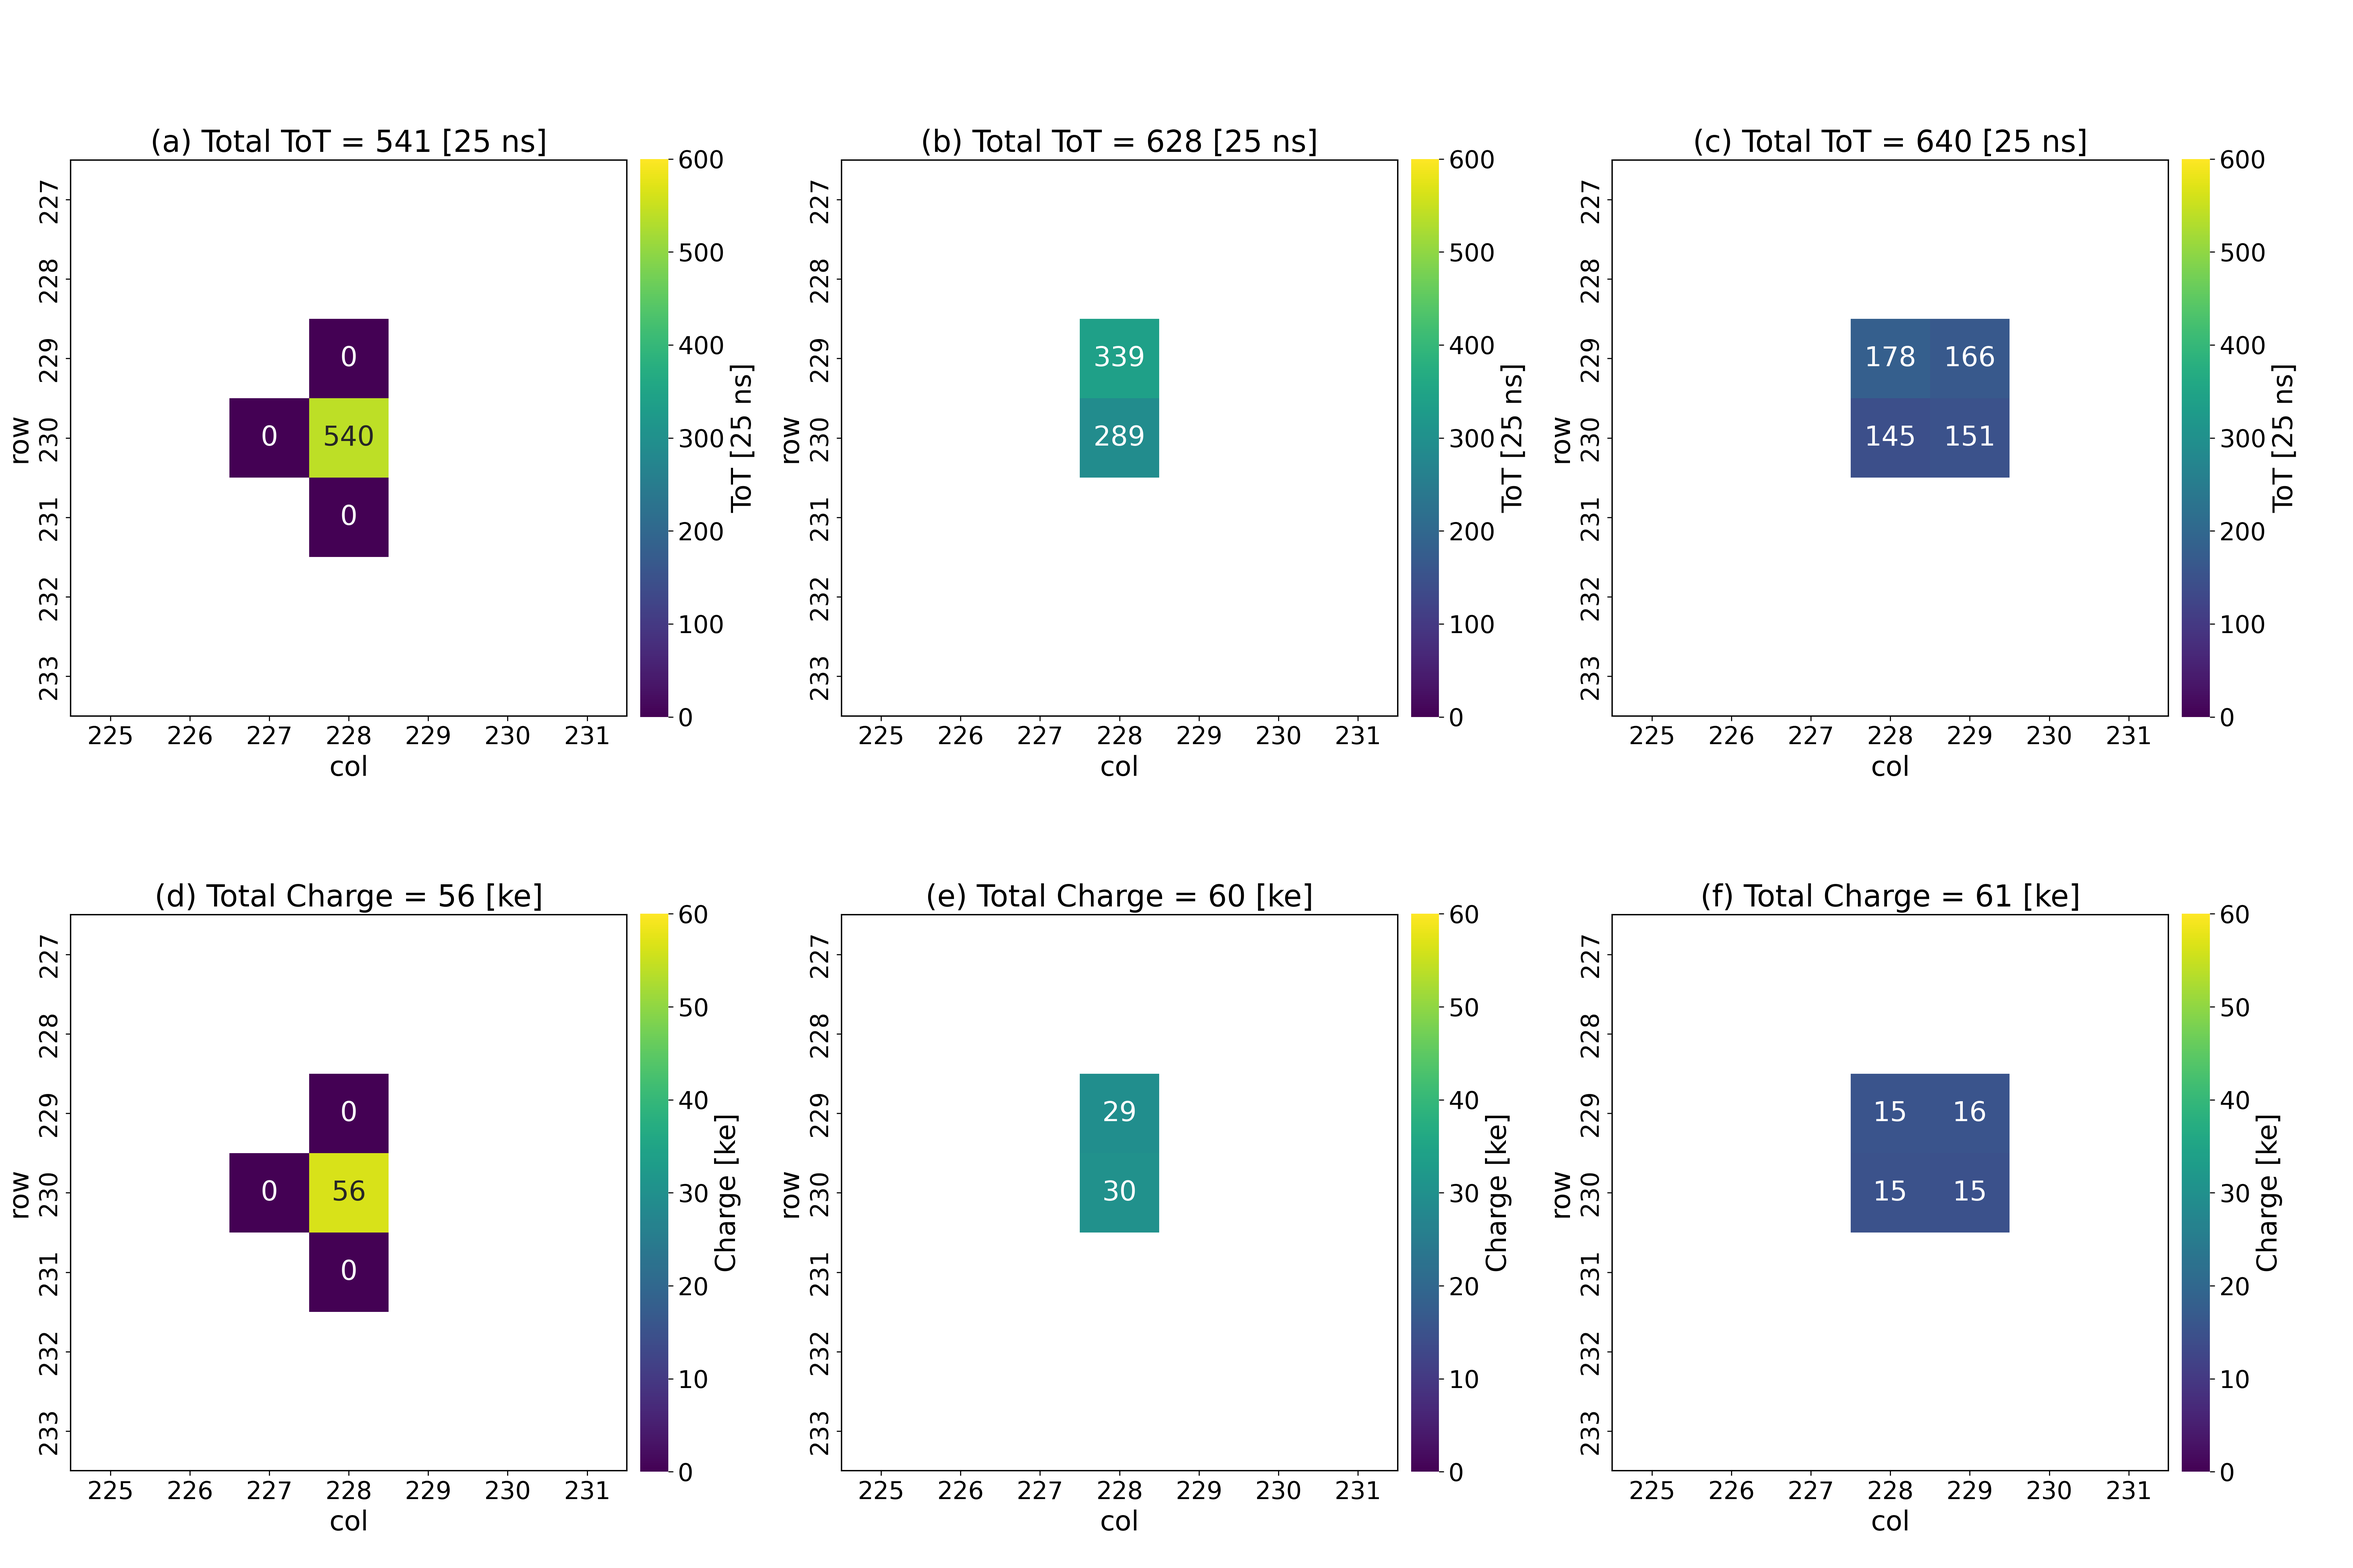
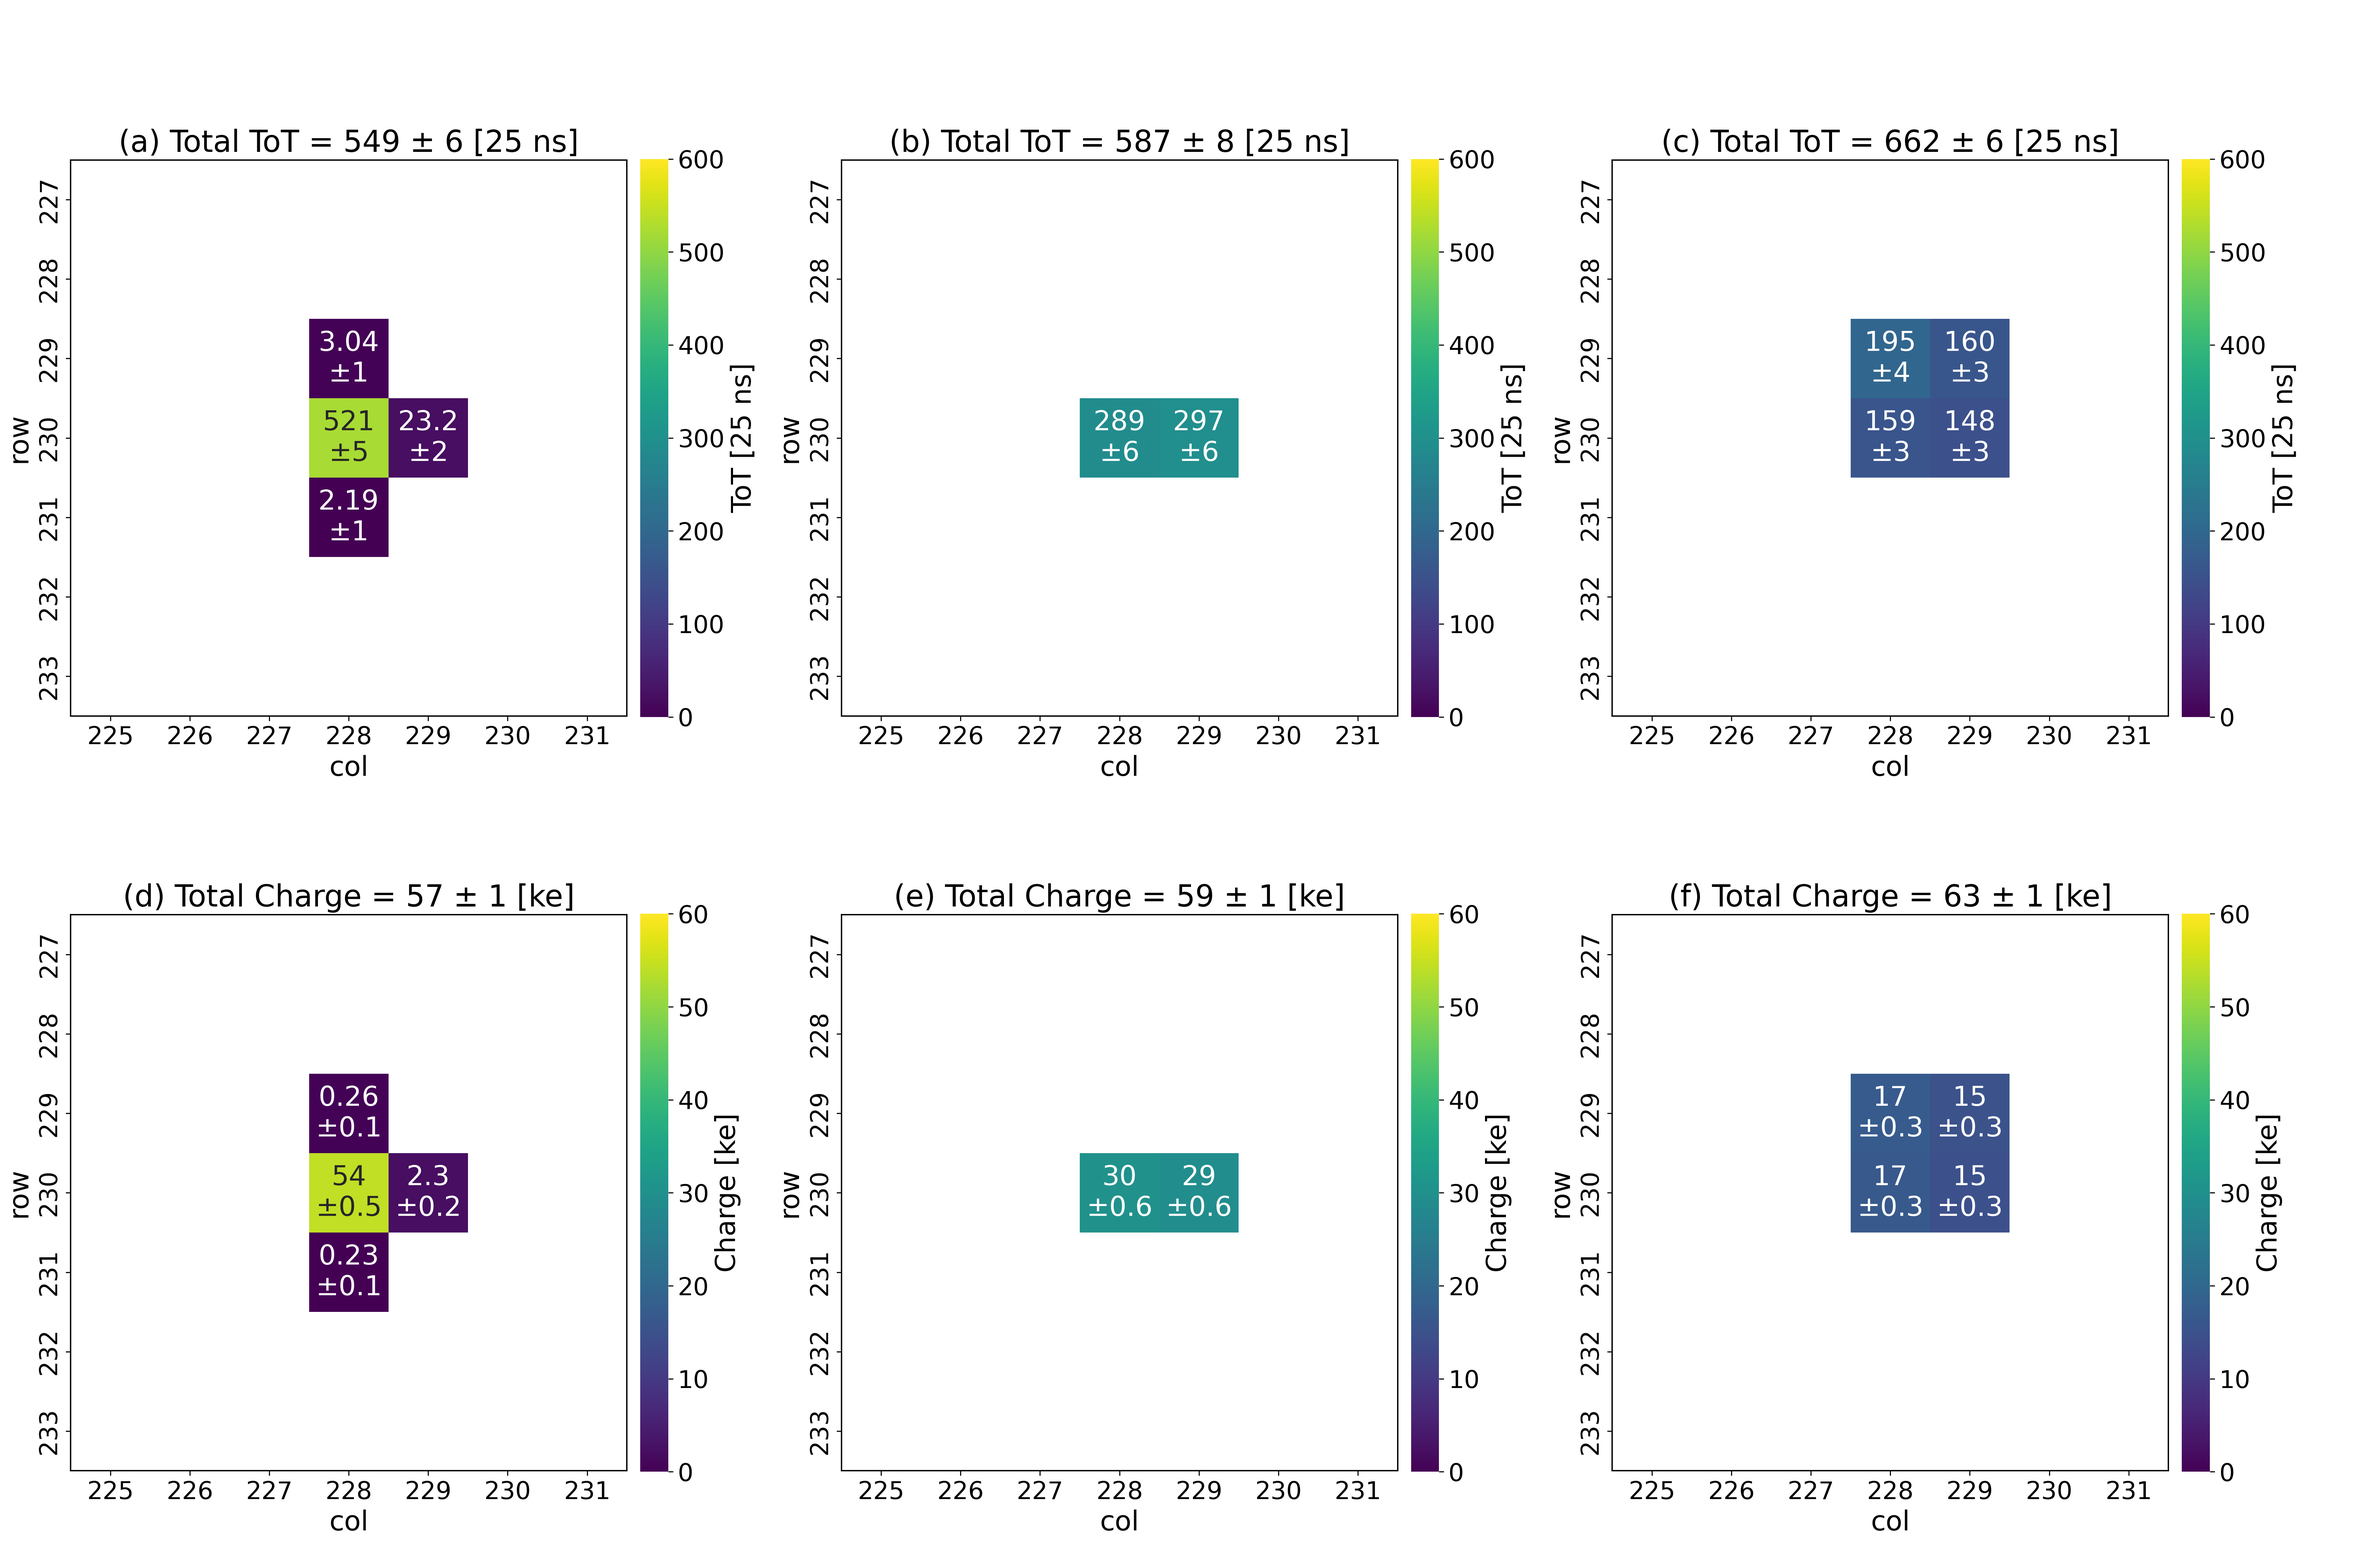
Fix file path in VisualizeToT function and adjust annotation formatting for improved clarity

diff --git a/timepix4/heatmap/plot_avg_tot_heatmap.py b/timepix4/heatmap/plot_avg_tot_heatmap.py
@@ -76,7 +76,7 @@ def VisualizeToT(filepath: str) -> None:
             lambda m_col, s_col: (
                 m_col.map(lambda v: f"{v:.3g}")
                 + "\n±"
-                + s_col.map(lambda v: f"{v:.3g}")
+                + s_col.map(lambda v: f"{v:.1g}")
             ),
         )
 
@@ -90,13 +90,13 @@ def VisualizeToT(filepath: str) -> None:
             square=True,
             annot=annot_tot,
             fmt="",
-            annot_kws={"size": 16},
+            annot_kws={"size": 20},
             ax=axes[i],
             vmax=600,
             vmin=0,
         )
         axes[i].set_title(
-            f"({letters[i]}) Total ToT = {total_mean_tot:.3g} ± {total_std_tot:.3g} [25 ns]"
+            f"({letters[i]}) Total ToT = {total_mean_tot:.3g} ± {round(total_std_tot)} [25 ns]"
         )
         for spine in axes[i].spines.values():
             spine.set_visible(True)
@@ -118,7 +118,7 @@ def VisualizeToT(filepath: str) -> None:
             lambda m_col, s_col: (
                 m_col.map(lambda v: f"{v:.2g}")
                 + "\n±"
-                + s_col.map(lambda v: f"{v:.2g}")
+                + s_col.map(lambda v: f"{v:.1g}")
             ),
         )
         # Compute total charge mean and std
@@ -131,13 +131,13 @@ def VisualizeToT(filepath: str) -> None:
             square=True,
             annot=annot_charge,
             fmt="",
-            annot_kws={"size": 16},
+            annot_kws={"size": 20},
             ax=axes[i + 3],
             vmax=60,
             vmin=0,
         )
         axes[i + 3].set_title(
-            f"({letters[i + 3]}) Total Charge = {total_mean_charge:.2g} ± {total_std_charge:.2g} [ke]"
+            f"({letters[i + 3]}) Total Charge = {total_mean_charge:.2g} ± {round(total_std_charge)} [ke]"
         )
         for spine in axes[i + 3].spines.values():
             spine.set_visible(True)

diff --git a/Heatmaps.py b/Heatmaps.py
@@ -6,7 +6,7 @@ def main():
     # # PlotAvgToTHeatmap(filepath)
     # filefit = "Data/Test Pulse Data/N116-TestPulseResults.csv"
     # PlotAvgToTAndFitHeatmaps(filepath, filefit)
-    VisualizeToT("Data/Laser Measurements/Laser Measurements x (228, 230)1/3_500.root")
+    VisualizeToT("Data/Laser Measurements/Laser Measurements x (228, 230)/3_500.root")
     # VisualizeToT_single("Data/Laser Measurements/Laser Measurements 4/3_500.root")
 
 
